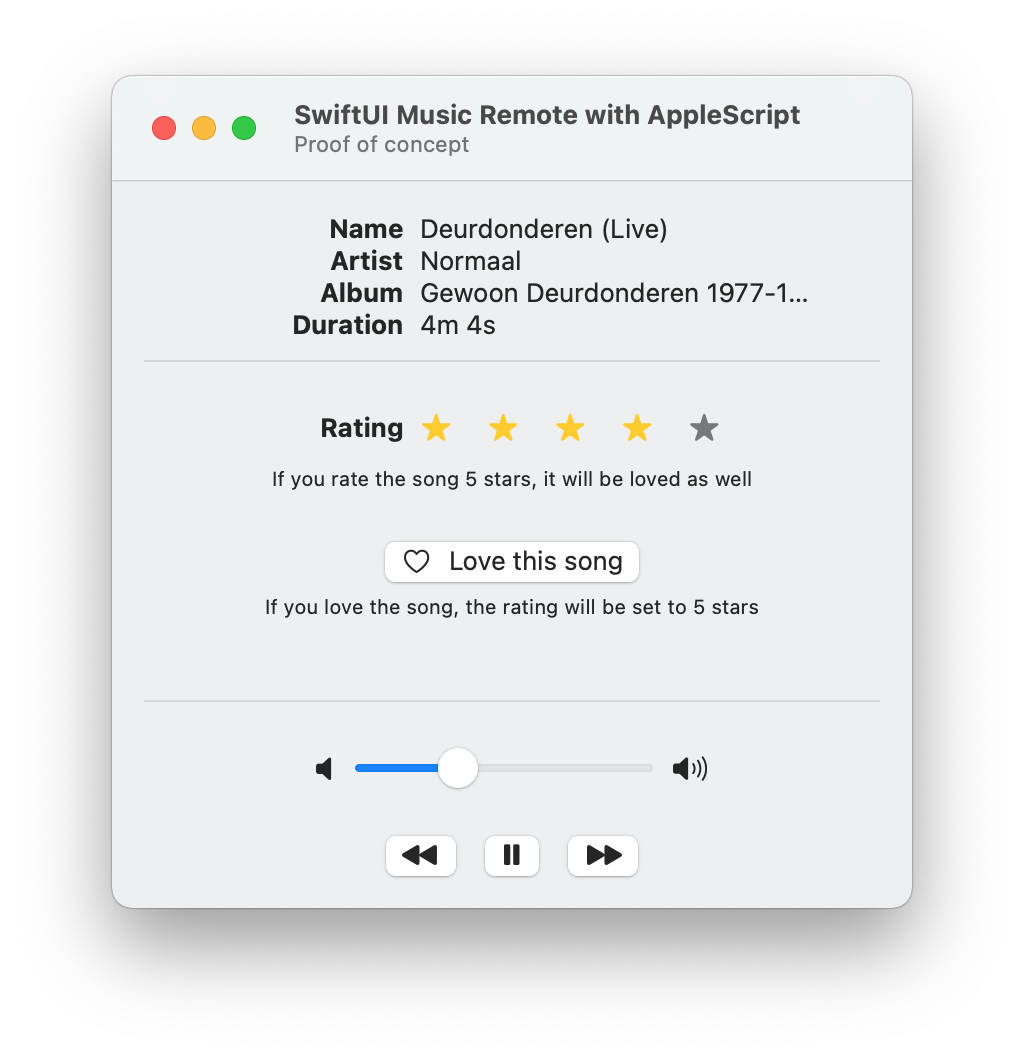
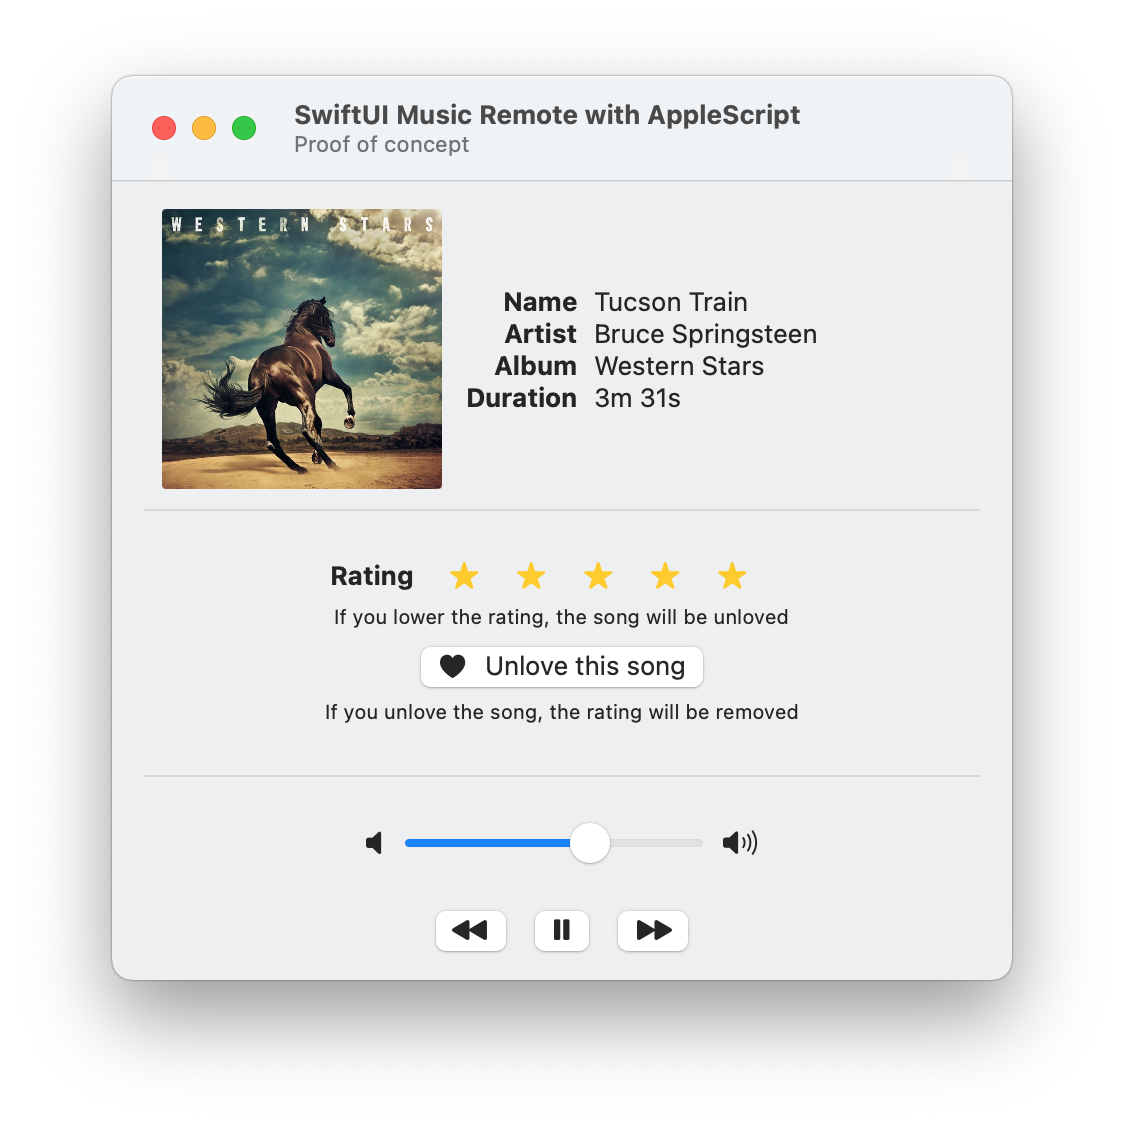
Show artwork of current song
This is not done with AppleScript but with the 'iTunesLibrary' framework

diff --git a/AppleScriptMusic/ContentView.swift b/AppleScriptMusic/ContentView.swift
@@ -12,58 +12,72 @@ struct ContentView: View {
     @State private var hoverRating: Int = 0
     var body: some View {
         VStack {
-            VStack {
-                HStack {
-                    Text("Name")
-                        .modifier(ViewModifierLeft())
-                    Text(musicModel.trackInfo.name)
-                        .modifier(ViewModifierRight())
+            HStack {
+                Group {
+                    if let cover = musicModel.cover {
+                        Image(nsImage: cover.image!)
+                            .resizable()
+                    } else {
+                        Image(systemName: "music.quarternote.3")
+                            .resizable()
+                    }
                 }
-                HStack {
-                    Text("Artist")
-                        .modifier(ViewModifierLeft())
-                    Text(musicModel.trackInfo.artist)
-                        .modifier(ViewModifierRight())
+                .cornerRadius(2)
+                .frame(width: 140, height: 140)
+                .padding(.leading)
+                
+                VStack {
+                    HStack {
+                        Text("Name")
+                            .modifier(ViewModifierLeft())
+                        Text(musicModel.trackInfo.name)
+                            .modifier(ViewModifierRight())
+                    }
+                    HStack {
+                        Text("Artist")
+                            .modifier(ViewModifierLeft())
+                        Text(musicModel.trackInfo.artist)
+                            .modifier(ViewModifierRight())
+                    }
+                    HStack {
+                        Text("Album")
+                            .modifier(ViewModifierLeft())
+                        Text(musicModel.trackInfo.album)
+                            .modifier(ViewModifierRight())
+                    }
+                    HStack {
+                        Text("Duration")
+                            .modifier(ViewModifierLeft())
+                        Text(musicModel.trackDuration)
+                            .modifier(ViewModifierRight())
+                    }
                 }
-                HStack {
-                    Text("Album")
-                        .modifier(ViewModifierLeft())
-                    Text(musicModel.trackInfo.album)
-                        .modifier(ViewModifierRight())
-                }
-                HStack {
-                    Text("Duration")
-                        .modifier(ViewModifierLeft())
-                    Text(musicModel.trackDuration)
-                        .modifier(ViewModifierRight())
-                }
-                Divider()
-                HStack {
-                    Text("Rating")
-                        .modifier(ViewModifierLeft())
-                    ratings
-                        .modifier(ViewModifierRight())
-                }
-                .padding(.top)
-                Text(musicModel.trackInfo.trackRating == 5 ? "If you lower the rating, the song will be unloved" : "If you rate the song 5 stars, it will be loved as well")
-                    .font(.caption)
-                    .padding(.top, 1)
-                HStack {
-                    Button(action: {
-                        musicModel.toggleLoved()
-                    }, label: {
-                        Label(title: {
-                            Text(musicModel.trackInfo.loved ? "Unlove this song" : "Love this song")
-                        }, icon: {
-                            Image(systemName: musicModel.trackInfo.loved ? "heart.fill" : "heart")
-                        })
-                    })
-                        .padding(.top)
-                }
-                Text(musicModel.trackInfo.loved ? "If you unlove the song, the rating will be removed" : "If you love the song, the rating will be set to 5 stars")
-                    .font(.caption)
             }
-            .padding()
+            .padding(.top)
+            Divider()
+                .padding(.horizontal)
+            HStack {
+                Text("Rating")
+                    .modifier(ViewModifierLeft())
+                ratings
+                    .modifier(ViewModifierRight())
+            }
+            .padding(.top)
+            Text(musicModel.trackInfo.trackRating == 5 ? "If you lower the rating, the song will be unloved" : "If you rate the song 5 stars, it will be loved as well")
+                .font(.caption)
+            HStack {
+                Button(action: {
+                    musicModel.toggleLoved()
+                }, label: {
+                    Label(title: {
+                        Text(musicModel.trackInfo.loved ? "Unlove this song" : "Love this song")
+                    }, icon: {
+                        Image(systemName: musicModel.trackInfo.loved ? "heart.fill" : "heart")
+                    })
+                })
+            }
+            Text(musicModel.trackInfo.loved ? "If you unlove the song, the rating will be removed" : "If you love the song, the rating will be set to 5 stars")
+                .font(.caption)
             Divider()
                 .padding()
             HStack {
@@ -95,7 +109,7 @@ struct ContentView: View {
             }
             .padding()
         }
-        .frame(width: 400)
+        .frame(width: 450, height: 400)
         .task {
             /// Update UI only if Music is already running
             if musicModel.isRunning {
@@ -111,6 +125,8 @@ extension ContentView {
     var ratings: some View {
         HStack {
             ForEach(1..<6, id: \.self) { number in
+                Divider()
+                    .opacity(0)
                 Image(systemName: "star.fill")
                     .foregroundColor(number > musicModel.trackInfo.trackRating ? Color.secondary : Color.yellow)
                     .onHover { hover in
@@ -122,8 +138,6 @@ extension ContentView {
                             musicModel.setRating(rating: number)
                         }
                     }
-                Divider()
-                    .opacity(0)
             }
         }
         .animation(.easeInOut(duration: 0.1), value: hoverRating)
@@ -133,7 +147,7 @@ extension ContentView {
         func body(content: Content) -> some View {
             content
                 .font(.headline)
-                .frame(width: 100, alignment: .trailing)
+                .frame(width: 60, alignment: .trailing)
         }
     }
     /// View modifier for Right column

diff --git a/AppleScriptMusic/Model.swift b/AppleScriptMusic/Model.swift
@@ -7,6 +7,7 @@
 
 import Foundation
 import AppleScriptObjC
+import iTunesLibrary
 
 class MusicModel: ObservableObject {
     /// The shared instance of this MusicModel class
@@ -15,6 +16,8 @@ class MusicModel: ObservableObject {
     var musicBridge: MusicBridge
     /// Info of current playing track; published because in the UI
     @Published var trackInfo = Track()
+    /// the cover of current song
+    var cover: ITLibArtwork?
     /// Value of volume level; published because in the UI
     @Published var soundVolume: Double = 0
     /// The current state of Music
@@ -25,19 +28,52 @@ class MusicModel: ObservableObject {
     var isRunning: Bool {
         return musicBridge._isRunning.boolValue
     }
-    /// AppleScriptObjC setup
+    /// The Music library
+    var musicSongs: [ITLibMediaItem] = []
+    /// Init the class
     init() {
+        /// AppleScriptObjC setup
         Bundle.main.loadAppleScriptObjectiveCScripts()
         //// create an instance of MusicBridge script object for Swift code to use
         let musicBridgeClass: AnyClass = NSClassFromString("MusicBridge")!
         self.musicBridge = musicBridgeClass.alloc() as! MusicBridge
+        /// Get all Music songs
+        musicSongs = getMusicSongs()
     }
     /// Update track info in the UI
     @MainActor func parseTrack() {
         /// trackInfo might be nil, so check...
         if let info = musicBridge.trackInfo as NSDictionary? {
             trackInfo = Track(dictionary: info)
+            if let match = musicSongs.first(where: {
+                $0.title == trackInfo.name  &&
+                $0.album.title == trackInfo.album &&
+                $0.trackNumber == trackInfo.trackNumber
+            }) {
+                if let coverArt = match.artwork {
+                    cover = coverArt
+                }
+                print(match.title)
+            } else {
+                print("No match")
+            }
         }
+    }
+    /// Get all songs from Music
+    /// - Returns: The songs
+    func getMusicSongs() -> [ITLibMediaItem] {
+        musicSongs = []
+        print("Getting Music songs...")
+        let iTunesLibrary: ITLibrary
+        do {
+            iTunesLibrary = try ITLibrary(apiVersion: "1.0")
+        } catch {
+            print("Error occured!")
+            return [ITLibMediaItem]()
+        }
+        let songs = iTunesLibrary.allMediaItems
+        print("Found \(songs.count) songs")
+        return songs
     }
     /// Toggle the 'love' button in the UI
     @MainActor func toggleLoved() {
